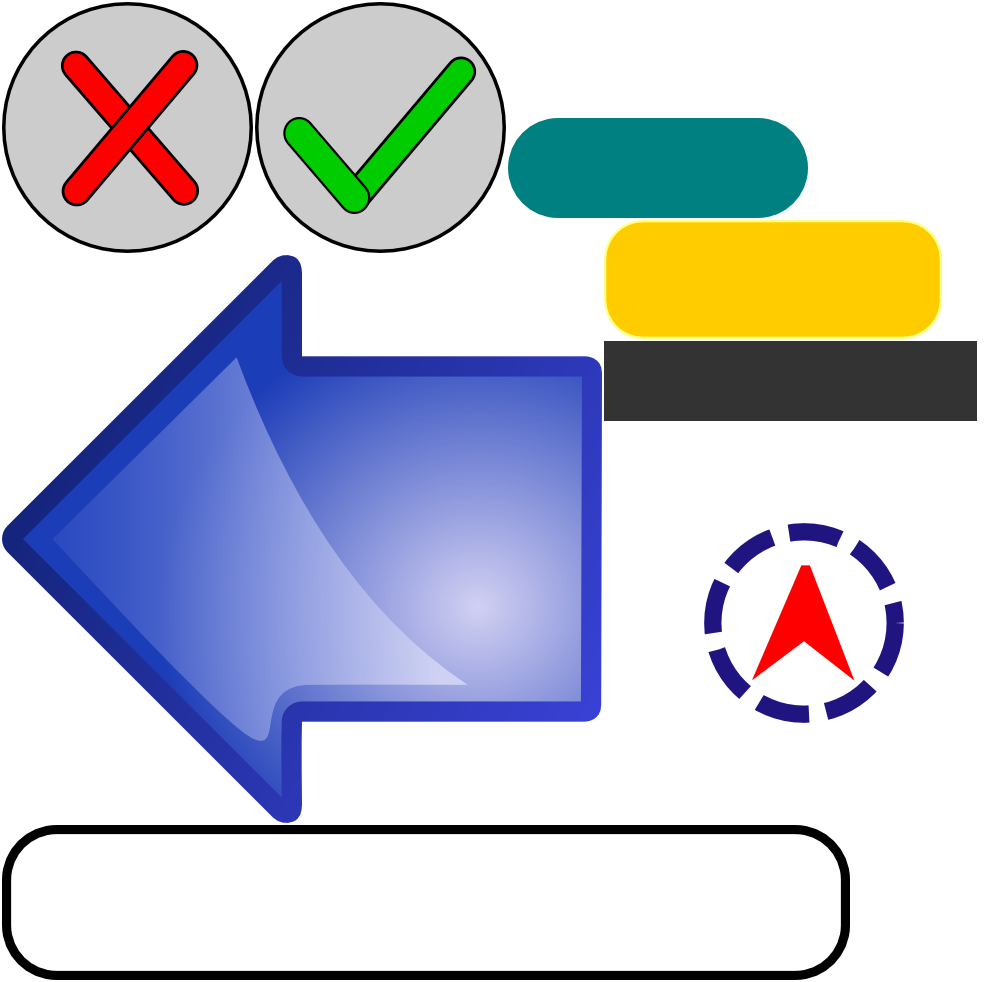
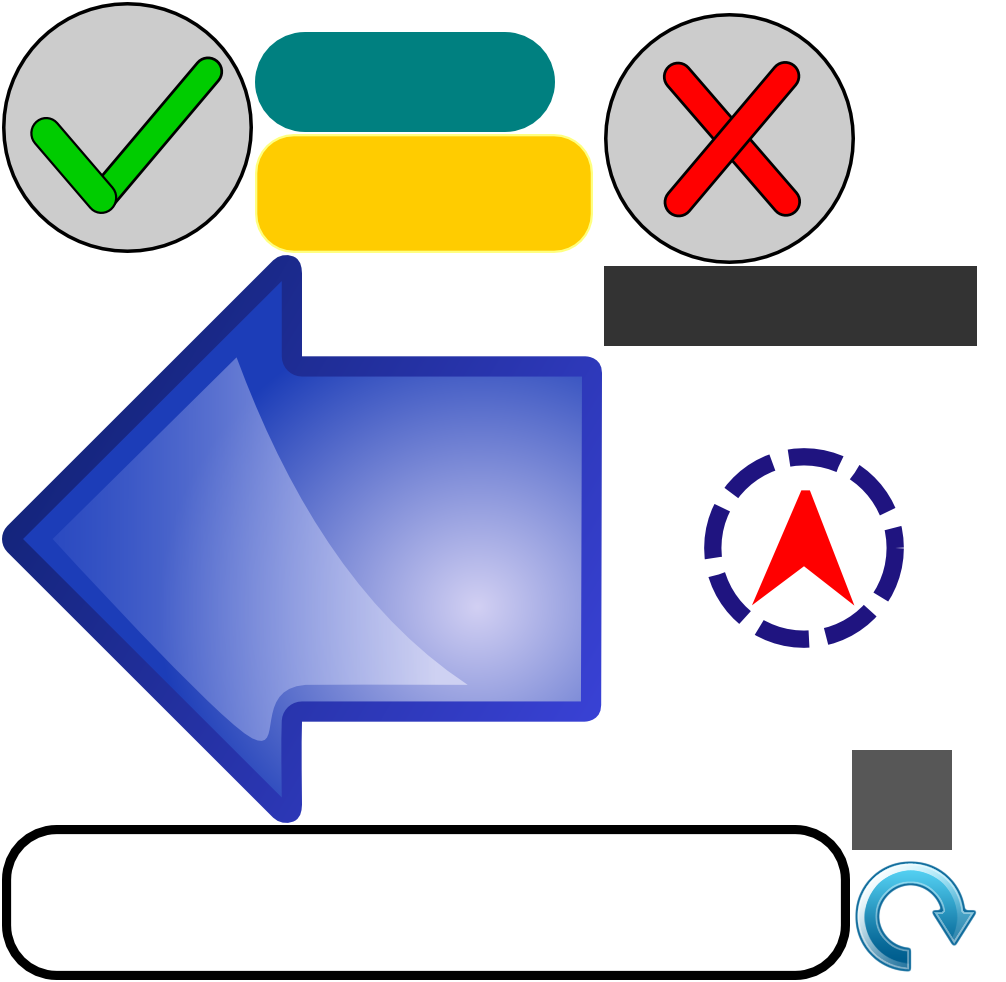
Add coin image to main menu screen

Changed region(s): [[0.0308, 0.0, 0.9861, 0.4277], [0.6779, 0.4582, 0.9245, 0.7332], [0.832, 0.7637, 0.9861, 1.0]]

diff --git a/GalCon-Client/GalCon-Client/src/com/xxx/galcon/screen/signin/MainMenuScreen.java b/GalCon-Client/GalCon-Client/src/com/xxx/galcon/screen/signin/MainMenuScreen.java
@@ -1,10 +1,5 @@
 package com.xxx.galcon.screen.signin;
 
-import static com.badlogic.gdx.math.Interpolation.pow3;
-import static com.badlogic.gdx.scenes.scene2d.actions.Actions.delay;
-import static com.badlogic.gdx.scenes.scene2d.actions.Actions.moveTo;
-import static com.badlogic.gdx.scenes.scene2d.actions.Actions.run;
-import static com.badlogic.gdx.scenes.scene2d.actions.Actions.sequence;
 import static com.xxx.galcon.Util.createShader;
 
 import org.joda.time.DateTime;
@@ -20,8 +15,10 @@ import com.badlogic.gdx.scenes.scene2d.InputEvent;
 import com.badlogic.gdx.scenes.scene2d.InputListener;
 import com.badlogic.gdx.scenes.scene2d.Stage;
 import com.badlogic.gdx.scenes.scene2d.ui.Image;
+import com.badlogic.gdx.scenes.scene2d.ui.ImageButton;
 import com.badlogic.gdx.scenes.scene2d.ui.Skin;
 import com.badlogic.gdx.scenes.scene2d.utils.Align;
+import com.badlogic.gdx.utils.Array;
 import com.xxx.galcon.Constants;
 import com.xxx.galcon.ExternalActionWrapper;
 import com.xxx.galcon.Fonts;
@@ -29,6 +26,8 @@ import com.xxx.galcon.GameLoop;
 import com.xxx.galcon.PartialScreenFeedback;
 import com.xxx.galcon.Strings;
 import com.xxx.galcon.http.GameAction;
+import com.xxx.galcon.screen.Action;
+import com.xxx.galcon.screen.GraphicsUtils;
 import com.xxx.galcon.screen.widget.ShaderLabel;
 
 public class MainMenuScreen implements PartialScreenFeedback {
@@ -45,6 +44,8 @@ public class MainMenuScreen implements PartialScreenFeedback {
 	private float percent;
 
 	private Actor loadingBar;
+
+	private Array<Actor> actors = new Array<Actor>();
 
 	private AssetManager assetManager;
 
@@ -93,6 +94,7 @@ public class MainMenuScreen implements PartialScreenFeedback {
 			}
 		});
 		stage.addActor(newLabel);
+		actors.add(newLabel);
 
 		continueLabel = new ShaderLabel(fontShader, Strings.CONTINUE, skin, Constants.UI.DEFAULT_FONT);
 		continueLabel.setAlignment(Align.center);
@@ -111,22 +113,23 @@ public class MainMenuScreen implements PartialScreenFeedback {
 			}
 		});
 		stage.addActor(continueLabel);
+		actors.add(continueLabel);
+
+		ImageButton coinImage = new ImageButton(skin, Constants.UI.COIN);
+		GraphicsUtils.setCommonButtonSize(coinImage);
+		coinImage.setX(width * 0.96f - coinImage.getWidth());
+		coinImage.setY(height * 0.97f - coinImage.getHeight());
+		stage.addActor(coinImage);
+		actors.add(coinImage);
 	}
 
 	private void startHideSequence(final String retVal) {
-		newLabel.addAction(sequence(delay(0.25f), moveTo(-Gdx.graphics.getWidth(), newLabel.getY(), 0.9f, pow3)));
-
-		continueLabel.addAction(sequence(delay(0.25f),
-				moveTo(-Gdx.graphics.getWidth(), continueLabel.getY(), 0.9f, pow3), run(new Runnable() {
-					@Override
-					public void run() {
-						returnValue = retVal;
-
-						newLabel.remove();
-						continueLabel.remove();
-					}
-				})));
-
+		GraphicsUtils.hideAnimated(actors, retVal.equals(Action.BACK), new Runnable() {
+			@Override
+			public void run() {
+				returnValue = retVal;
+			}
+		});
 	}
 
 	private String currentUserText() {
@@ -163,6 +166,7 @@ public class MainMenuScreen implements PartialScreenFeedback {
 	@Override
 	public void show(Stage stage, float width, float height) {
 		this.stage = stage;
+		actors.clear();
 
 		addElementsToStage();
 

diff --git a/GalCon-Client/GalCon-Client/src/com/xxx/galcon/UISkin.java b/GalCon-Client/GalCon-Client/src/com/xxx/galcon/UISkin.java
@@ -32,7 +32,7 @@ public class UISkin extends Skin {
 		add(Constants.UI.DEFAULT_FONT_BLACK, new LabelStyle(Fonts.getInstance(assetManager).mediumFont(), Color.BLACK));
 		add(Constants.UI.DEFAULT_FONT_GREEN, new LabelStyle(Fonts.getInstance(assetManager).mediumFont(), Color.GREEN));
 		add(Constants.UI.SMALL_FONT, new LabelStyle(Fonts.getInstance(assetManager).smallFont(), Color.WHITE));
-		
+
 		/*
 		 * TextField
 		 */
@@ -72,7 +72,7 @@ public class UISkin extends Skin {
 			ButtonStyle style = new ButtonStyle(new NinePatchDrawable(up), new NinePatchDrawable(down), null);
 			add(Constants.UI.GOOGLE_PLUS_SIGN_IN_BUTTON, style);
 		}
-		
+
 		/*
 		 * Image
 		 */
@@ -103,6 +103,10 @@ public class UISkin extends Skin {
 		{
 			TextureRegionDrawable trd = new TextureRegionDrawable(menusAtlas.findRegion("black_grey_button"));
 			add(Constants.UI.GRAY_BUTTON, new ImageButtonStyle(trd, trd, trd, trd, trd, trd));
+		}
+		{
+			TextureRegionDrawable trd = new TextureRegionDrawable(menusAtlas.findRegion("coin"));
+			add(Constants.UI.COIN, new ImageButtonStyle(trd, trd, trd, trd, trd, trd));
 		}
 
 		TextureRegionDrawable textureRegionDrawable = new TextureRegionDrawable(
@@ -137,7 +141,7 @@ public class UISkin extends Skin {
 		textureRegionDrawable = new TextureRegionDrawable(gameBoardAtlas.findRegion("ship"));
 		add("shipButton", new ImageButtonStyle(textureRegionDrawable, textureRegionDrawable, textureRegionDrawable,
 				textureRegionDrawable, textureRegionDrawable, textureRegionDrawable));
-		
+
 		textureRegionDrawable = new TextureRegionDrawable(menusAtlas.findRegion("refresh"));
 		add("refreshButton", new ImageButtonStyle(textureRegionDrawable, textureRegionDrawable, textureRegionDrawable,
 				textureRegionDrawable, textureRegionDrawable, textureRegionDrawable));

diff --git a/GalCon-Client/GalCon-Client/src/com/xxx/galcon/screen/LevelSelectionScreen.java b/GalCon-Client/GalCon-Client/src/com/xxx/galcon/screen/LevelSelectionScreen.java
@@ -32,7 +32,6 @@ import com.xxx.galcon.UIConnectionWrapper;
 import com.xxx.galcon.http.UIConnectionResultCallback;
 import com.xxx.galcon.model.Map;
 import com.xxx.galcon.model.Maps;
-import com.xxx.galcon.screen.hud.HeaderHud;
 import com.xxx.galcon.screen.overlay.DismissableOverlay;
 import com.xxx.galcon.screen.overlay.Overlay;
 import com.xxx.galcon.screen.overlay.TextOverlay;
@@ -312,7 +311,6 @@ public class LevelSelectionScreen implements PartialScreenFeedback, UIConnection
 		stage.addActor(waitImage);
 
 		int tableHeight = (int) (height * .7f);
-		int buttonHeight = (int) (Gdx.graphics.getHeight() * (HeaderHud.HEADER_HEIGHT_RATIO * 0.88f));
 
 		this.levelSelectBgBottom = levelSelectionAtlas.findRegion("level_select_bg_bottom");
 		this.levelSelectionCard = levelSelectionAtlas.findRegion("level_card_black");
@@ -325,10 +323,9 @@ public class LevelSelectionScreen implements PartialScreenFeedback, UIConnection
 		cardTable.setHeight(tableHeight);
 
 		backButton = new ImageButton(skin, "backButton");
+		GraphicsUtils.setCommonButtonSize(backButton);
 		backButton.setX(10);
-		backButton.setY(height - buttonHeight - 5);
-		backButton.setWidth(buttonHeight);
-		backButton.setHeight(buttonHeight);
+		backButton.setY(height - backButton.getHeight() - 5);
 		backButton.addListener(new InputListener() {
 			@Override
 			public boolean touchDown(InputEvent event, float x, float y, int pointer, int button) {

diff --git a/GalCon-Client/GalCon-Client/src/com/xxx/galcon/screen/GraphicsUtils.java b/GalCon-Client/GalCon-Client/src/com/xxx/galcon/screen/GraphicsUtils.java
@@ -9,6 +9,7 @@ import static com.badlogic.gdx.scenes.scene2d.actions.Actions.sequence;
 import com.badlogic.gdx.Gdx;
 import com.badlogic.gdx.scenes.scene2d.Actor;
 import com.badlogic.gdx.utils.Array;
+import com.xxx.galcon.screen.hud.HeaderHud;
 
 public class GraphicsUtils {
 
@@ -43,5 +44,11 @@ public class GraphicsUtils {
 				runAtEnd.run();
 			}
 		})));
+	}
+
+	public static final void setCommonButtonSize(Actor actor) {
+		float buttonSize = (Gdx.graphics.getHeight() * (HeaderHud.HEADER_HEIGHT_RATIO * 0.88f));
+		actor.setHeight(buttonSize);
+		actor.setWidth(buttonSize);
 	}
 }

diff --git a/GalCon-Client/GalCon-Client/src/com/xxx/galcon/Constants.java b/GalCon-Client/GalCon-Client/src/com/xxx/galcon/Constants.java
@@ -27,6 +27,7 @@ public class Constants {
 		public static final String GRAY_BUTTON = "grayButton";
 		public static final String GRAY_BUTTON_TEXT = "grayButtonText";
 		public static final String CELL_BG = "cellBg";
+		public static final String COIN = "coin";
 		public static final String DIALOG_BG = "dialogBg";
 		public static final String GOOGLE_PLUS_SIGN_IN_BUTTON = "googlePlusSignInButton";
 	}
